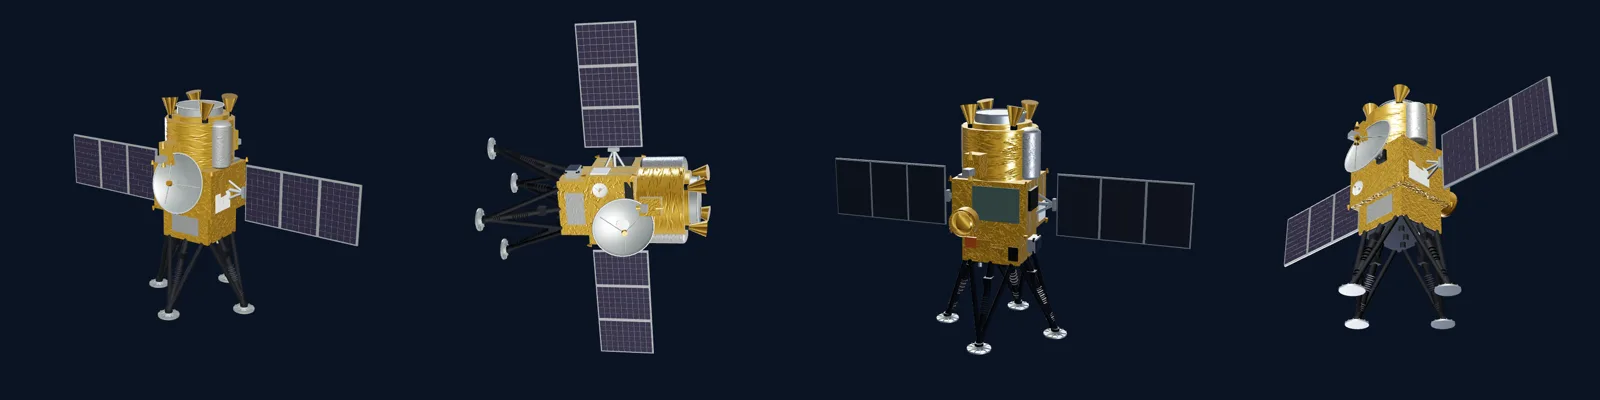
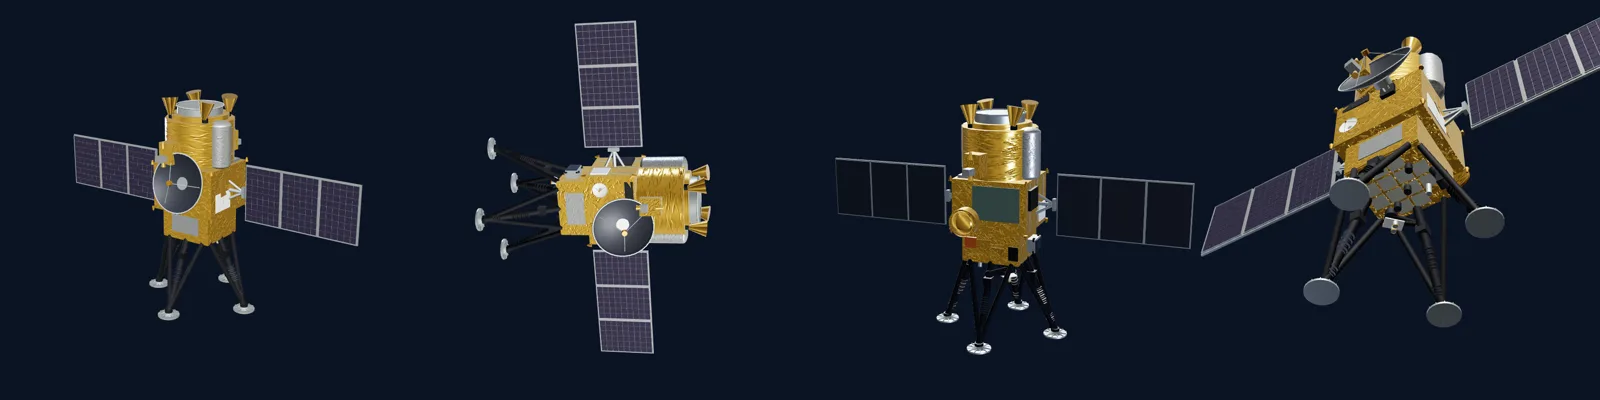
MMX の模型：フォボスに向く面の鏡のような反射板・折りたたんだロボットアーム（先に白い板と2本の筒）・暗い色のアンテナ（公式の写真から）
Claude-Session: https://claude.ai/code/session_01JK94pM8GdsgsbRRcfBxZiz

Changed region(s): [[0.75, 0.06, 1.0, 0.84], [0.3438, 0.48, 0.4062, 0.66], [0.0938, 0.39, 0.125, 0.54]]

diff --git a/web/js/far/models.js b/web/js/far/models.js
@@ -73,6 +73,7 @@ export function makeKit(T) {
     foilSilver:mat('foil-silver',0xc9d0d4,.85,.3,{bumpMap:foil,bumpScale:.006}),
     copper:mat('copper',0xc4682f,.6,.42),
     solarThin:mat('solar-thin-film',0xffffff,.5,.38,{map:cellsThin}),
+    osr:mat('mirror-tile',0xdfe6ea,1,.08,{envMapIntensity:1.1}),
     graphite:mat('graphite',0x2c313b,.4,.55),
     olive:mat('radiator-olive',0x56695f,.35,.5),
     goldMLI:mat('foil-gold-bright',0xe0b03e,.85,.26,{bumpMap:foil,bumpScale:.014,envMapIntensity:.8}),
@@ -347,7 +348,17 @@ function mmx(T,K){
   B('goldMLI',[0,ey,0],[1.5,.8,1.4],[0,0,0],explore);
   // 星を見て向きを知るカメラ（スタートラッカー）と、小さなアンテナ（目安）
   for(const x of [-.4,-.15])C('black',[x,ey+.47,-.6],.07,.14,[-.5,0,0],explore,12);
-  B('black',[0,.94,0],[1.44,.03,1.34],[0,0,0],explore);              // フォボスに向く面
+  // フォボスに向く面：鏡のような反射板が並び、すきまに金色の断熱材（写真から）
+  B('goldMLI',[0,.945,0],[1.46,.03,1.36],[0,0,0],explore);
+  for(let x=0;x<4;x++)for(let z=0;z<4;z++)if(!((x===0||x===3)&&(z===0||z===3)))B('osr',[(x-1.5)*.34,.928,(z-1.5)*.31],[.3,.012,.27],[0,0,0],explore);
+  // ロボットアーム（底の面に折りたたむ。先に白い板と、金の帯の入った筒が2本）
+  {const arm=group('robot-arm',[-.45,.9,-.45],[0,PI/4,0],explore);
+   C('black',[0,-.06,0],.12,.14,[0,0,0],arm,14);
+   rod('black',[0,-.1,0],[.62,-.16,0],.055,arm,10);ball('black',[.62,-.16,0],[.08,.08,.08],arm);
+   rod('black',[.62,-.16,0],[.1,-.24,0],.05,arm,10);
+   const head=group('sampler-head',[.05,-.3,0],[0,0,0],arm);
+   B('white',[0,0,0],[.36,.03,.22],[0,0,0],head);
+   for(const z of [-.06,.06]){C('silver',[.02,-.07,z],.05,.12,[0,0,0],head,12);ring('gold',[.02,-.12,z],.05,.02,[PI/2,0,0],head);}}
   B('foilSilver',[0,ey+.05,.705],[.9,.5,.02],[0,0,0],explore);        // 放熱面
   B('black',[-.6,ey-.1,-.705],[.25,.35,.03],[0,0,0],explore);
   // ローバ（IDEFIX）を側面に抱える（位置は目安）
@@ -405,7 +416,7 @@ function mmx(T,K){
      else if(f===2)B('goldMLI',[u*1.2,ey+v*.6,-.708],[w*.8,h*.8,.012],[tilt,tilt*.6,0],explore);
      else B('goldMLI',[-.758,ey+v*.6,u*1.0],[.012,h*.8,w*.8],[0,tilt,tilt*.6],explore);}}
   // 大きなアンテナの皿と、小さな皿
-  const hga=b.dish(.78,[.25,ry+.34,1.18],[PI/2-.25,0,0],ret,'silver');
+  const hga=b.dish(.78,[.25,ry+.34,1.18],[PI/2-.25,0,0],ret,'graphite');
   rod('silver',[.25,ry+.3,.86],[.25,ry+.32,1.08],.07,ret,12);B('black',[.25,ry+.3,.9],[.3,.3,.08],[0,0,0],ret);
   b.dish(.2,[-.6,ry-.25,.86],[PI/2,0,0],ret,'white');
   // 姿勢を変える小さな噴射口（四隅）
